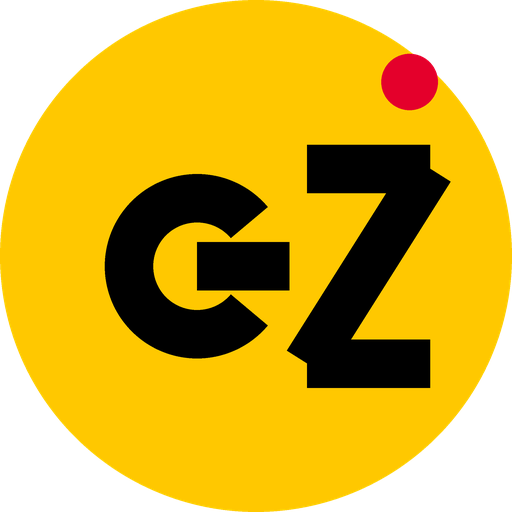
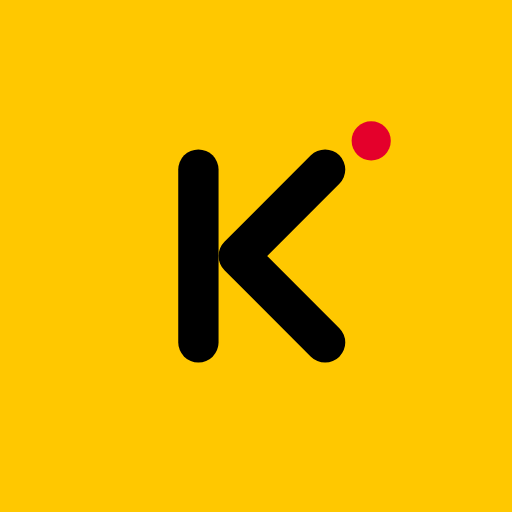
Revert "feat(genz): rebrand Kampuz to Gen Z"
This reverts commit 0f4fcc75ff7d76f97b18d8c85107e301d3902192.

diff --git a/index.html b/index.html
@@ -3,19 +3,17 @@
 <head>
   <meta charset="UTF-8" />
   <meta name="viewport" content="width=device-width, initial-scale=1.0, viewport-fit=cover" />
-  <meta name="description" content="Gen Z is the social home for Uganda's students: feed, shorts, live classes, course chat and an AI study buddy." />
+  <meta name="description" content="Kampuz is the social home for Uganda's students: feed, shorts, live classes, course chat and an AI study buddy." />
   <meta name="theme-color" content="#0b0d12" />
   <meta name="color-scheme" content="dark light" />
   <meta name="kz-build" content="5dea433e335274ac82f519f9d32b12ba420c1b7f" />
-  <link rel="canonical" href="https://genz.rentpay.site/" />
   <meta property="og:type" content="website" />
-  <meta property="og:site_name" content="Gen Z" />
-  <meta property="og:url" content="https://genz.rentpay.site/" />
-  <meta property="og:title" content="Gen Z: your campus, live." />
+  <meta property="og:site_name" content="Kampuz" />
+  <meta property="og:title" content="Kampuz: your campus, live." />
   <meta property="og:description" content="Share moments, join course chats, catch live classes and study with an AI buddy." />
-  <meta property="og:image" content="https://genz.rentpay.site/brand/og.png" />
+  <meta property="og:image" content="https://rentpay.site/brand/og.png" />
   <meta name="twitter:card" content="summary_large_image" />
-  <title>Gen Z: your campus, live</title>
+  <title>Kampuz: your campus, live</title>
   <link rel="icon" href="/brand/logo.svg" type="image/svg+xml" />
   <link rel="apple-touch-icon" href="/brand/apple-touch-icon.png" />
   <link rel="preconnect" href="https://fonts.googleapis.com" />
@@ -23,15 +21,15 @@
   <link href="https://fonts.googleapis.com/css2?family=Bricolage+Grotesque:opsz,wght@12..96,700;12..96,800&family=Plus+Jakarta+Sans:wght@400;500;600;700;800&display=swap" rel="stylesheet" />
   <link rel="manifest" href="/manifest.webmanifest" />
   <link rel="stylesheet" href="/css/app.css" />
-  <link rel="stylesheet" href="/css/genz.css" />
+  <link rel="stylesheet" href="/css/kampuz.css" />
   <script src="/lib/signalr.min.js"></script>
 </head>
 <body>
   <div id="app" class="app-root">
-    <div class="boot-screen" role="status" aria-label="Loading Gen Z">
+    <div class="boot-screen" role="status" aria-label="Loading Kampuz">
       <div class="boot-logo">
         <img src="/brand/logo.svg" width="72" height="72" alt="" />
-        <h1>Gen Z</h1>
+        <h1>Kampuz</h1>
         <p>Your campus, live.</p>
       </div>
       <div class="boot-dots"><span></span><span></span><span></span></div>

diff --git a/js/brand.js b/js/brand.js
@@ -1,18 +1,17 @@
-/* Gen Z — single source of truth for the brand. Change the name here and the app follows. */
+/* Kampuz — single source of truth for the brand. Change the name here and the app follows. */
 export const BRAND = Object.freeze({
-  name: 'Gen Z',
+  name: 'Kampuz',
   tagline: 'Your campus, live.',
-  legal: 'Gen Z © 2026',
+  legal: 'Kampuz © 2026',
 });
 
-/** The Gen Z mark: black "GZ" on boda-yellow, with a red live dot. Flat, self-contained SVG. */
+/** The Kampuz mark: black "K" on boda-yellow, with a red live dot. Flat, self-contained SVG. */
 export function logoMark(size = 36, { inverse = false } = {}) {
   const [tile, ink] = inverse ? ['#000', '#FFC800'] : ['#FFC800', '#000'];
   return `<svg class="kz-mark" viewBox="0 0 64 64" width="${size}" height="${size}" role="img" aria-label="${BRAND.name}">
     <rect width="64" height="64" rx="18" fill="${tile}"/>
-    <path d="M35 23A10.5 10.5 0 1 0 35 41" stroke="${ink}" stroke-width="6" stroke-linecap="round" fill="none"/>
-    <path d="M24.5 32H35" stroke="${ink}" stroke-width="6" stroke-linecap="round" fill="none"/>
-    <path d="M39 21.5H53L39 42.5H53" stroke="${ink}" stroke-width="6" stroke-linecap="round" stroke-linejoin="round" fill="none"/>
+    <path d="M22 17v30" stroke="${ink}" stroke-width="7" stroke-linecap="round" fill="none"/>
+    <path d="M44 17 29 32l15 15" stroke="${ink}" stroke-width="7" stroke-linecap="round" stroke-linejoin="round" fill="none"/>
     <circle cx="52" cy="12" r="3.4" fill="#E4002B"/></svg>`;
 }
 

diff --git a/js/auto-update.js b/js/auto-update.js
@@ -1,4 +1,4 @@
-/* Gen Z over-the-air updater.
+/* Kampuz over-the-air updater.
  *
  * A deploy publishes /version.json. This script notices a newer build and applies it without
  * ever yanking the page out from under someone:
@@ -72,7 +72,7 @@
     }
     banner.querySelector('.kz-update-msg').textContent = stuck
       ? 'An update is ready but could not be applied. Refresh the page again, or clear site data if it keeps happening.'
-      : (pending.notes ? `Update ready: ${pending.notes}` : 'A new version of Gen Z is ready.');
+      : (pending.notes ? `Update ready: ${pending.notes}` : 'A new version of Kampuz is ready.');
   }
 
   async function check() {

diff --git a/js/views/settings.js b/js/views/settings.js
@@ -1,5 +1,5 @@
 import { BRAND } from '../brand.js';
-/* Gen Z — Settings: profile, appearance, screen time, premium, danger zone */
+/* Kampuz — Settings: profile, appearance, screen time, premium, danger zone */
 import { api, session, getTheme, setTheme } from '../api.js';
 import { esc, h, icon, toast, fmtDuration, confirmDialog, avatar } from '../ui.js';
 import { editProfileDialog } from './profile.js';

diff --git a/js/components.js b/js/components.js
@@ -1,4 +1,4 @@
-/* Gen Z — reusable components (post card, composer, user rows) */
+/* Kampuz — reusable components (post card, composer, user rows) */
 import { api, session } from './api.js';
 import { esc, rich, h, avatar, timeAgo, fmtCount, icon, toast, lightbox, confirmDialog, nav } from './ui.js';
 import { connectChat } from './realtime.js';

diff --git a/css/kampuz.css b/css/kampuz.css
@@ -1,5 +1,5 @@
 /* ============================================================
-   Gen Z identity layer. Loads after app.css and only overrides.
+   Kampuz identity layer. Loads after app.css and only overrides.
 
    Direction: boda-boda yellow and signage black, taken from the
    taxis, road signs and flag of the place this app is for.

diff --git a/js/api.js b/js/api.js
@@ -1,6 +1,6 @@
-/* Gen Z — client API with auth, token refresh, contract adapters and graceful degradation */
+/* Kampuz — client API with auth, token refresh, contract adapters and graceful degradation */
 
-const BASE = 'https://rentpay.site';
+const BASE = '';
 const store = {
   access: null, refresh: null, user: null,
 };

diff --git a/js/app.js b/js/app.js
@@ -1,4 +1,4 @@
-/* Gen Z — SPA router + app shell */
+/* Kampuz — SPA router + app shell */
 import { api, session, loadSession, getTheme, setTheme, clearSession, saveSession } from './api.js';
 import { esc, h, icon, toast, avatar, timeAgo, nav } from './ui.js';
 import { renderAuth } from './views/auth.js';

diff --git a/js/extras.js b/js/extras.js
@@ -1,4 +1,4 @@
-/* Gen Z — command palette (Ctrl/⌘+K) and PWA install prompt. */
+/* Kampuz — command palette (Ctrl/⌘+K) and PWA install prompt. */
 import { BRAND } from './brand.js';
 import { icons } from './icons.js';
 import { getTheme, setTheme } from './api.js';

diff --git a/js/views/auth.js b/js/views/auth.js
@@ -1,4 +1,4 @@
-/* Gen Z — Auth view (login + register) */
+/* Kampuz — Auth view (login + register) */
 import { api, saveSession, setTheme } from '../api.js';
 import { esc, h, icon, toast } from '../ui.js';
 import { BRAND, logoMark, wordmark } from '../brand.js';

diff --git a/js/views/search.js b/js/views/search.js
@@ -1,4 +1,4 @@
-/* Gen Z — Search view */
+/* Kampuz — Search view */
 import { BRAND } from '../brand.js';
 import { api } from '../api.js';
 import { esc, h, icon, emptyState, nav, fmtCount } from '../ui.js';
